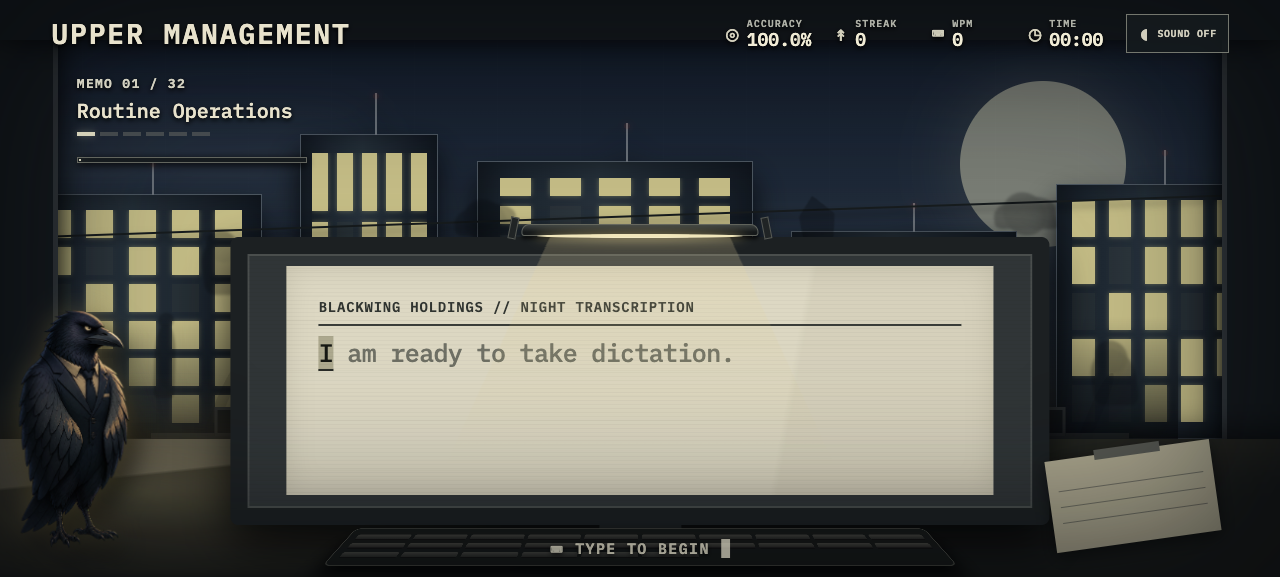
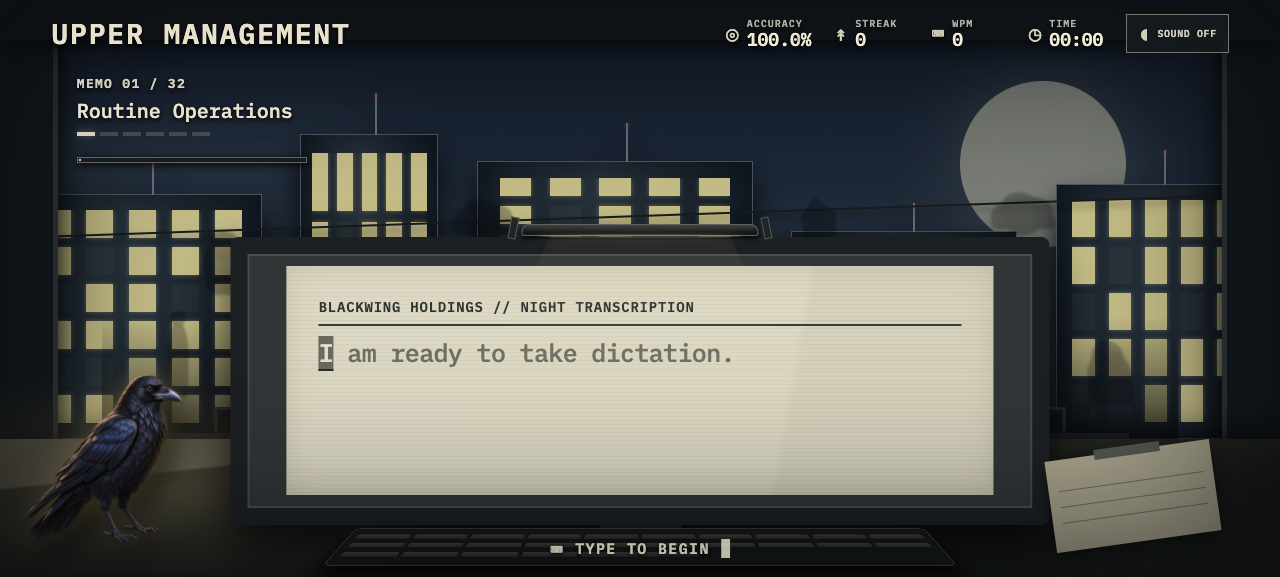
Add junior raven supervisor variations

diff --git a/typing/src/components/Scene.tsx b/typing/src/components/Scene.tsx
@@ -2,7 +2,16 @@ import type { GameState } from '../game/engine'
 import { Memo } from './Memo'
 import { Raven } from './Raven'
 
-const SUPERVISOR_RAVEN = `${import.meta.env.BASE_URL}assets/supervisor-raven.png`
+const SUPERVISOR_VARIANTS = {
+  dutiful: 'supervisor-raven-dutiful.png',
+  alert: 'supervisor-raven-alert.png',
+  watchful: 'supervisor-raven-watchful.png',
+} as const
+const requestedSupervisor = new URLSearchParams(window.location.search).get('supervisor')
+const supervisorVariant = requestedSupervisor && requestedSupervisor in SUPERVISOR_VARIANTS
+  ? requestedSupervisor as keyof typeof SUPERVISOR_VARIANTS
+  : 'dutiful'
+const SUPERVISOR_RAVEN = `${import.meta.env.BASE_URL}assets/${SUPERVISOR_VARIANTS[supervisorVariant]}`
 const WATCHER_RAVEN = `${import.meta.env.BASE_URL}assets/watcher-raven.png`
 
 const BUILDINGS = [
@@ -98,7 +107,8 @@ export function Scene({ state }: { state: GameState }) {
             key={`supervisor-${state.errorPulse}-${state.completionPulse}`}
             className={`supervisor supervisor-image ${state.phase === 'playing' && state.currentMistakes > 0 ? 'reacting' : ''} ${state.phase === 'transition' ? 'approving' : ''} ${state.mistakes > 0 ? 'watchful' : ''}`}
             src={SUPERVISOR_RAVEN}
-            alt="Your raven supervisor"
+            alt="Your watchful junior raven supervisor"
+            data-variant={supervisorVariant}
           />
         </div>
         <div className="final-typist"><Raven stare /><span className="final-wing">.</span></div>

diff --git a/typing/src/styles.css b/typing/src/styles.css
@@ -195,7 +195,7 @@ button { font: inherit; }
 }
 
 @media (max-height: 650px) and (min-width: 761px) {
-  .monitor { height: 50vh; bottom: 9%; }.memo-rule { margin-bottom: 10px; }.supervisor-perch { width: 110px; }.stage-label { top: 13%; }.shift-progress { top: calc(13% + 82px); }
+  .monitor { height: 50vh; bottom: 9%; }.memo-rule { margin-bottom: 10px; }.supervisor-perch { width: 165px; }.stage-label { top: 13%; }.shift-progress { top: calc(13% + 82px); }
 }
 
 @media (prefers-reduced-motion: reduce) {
